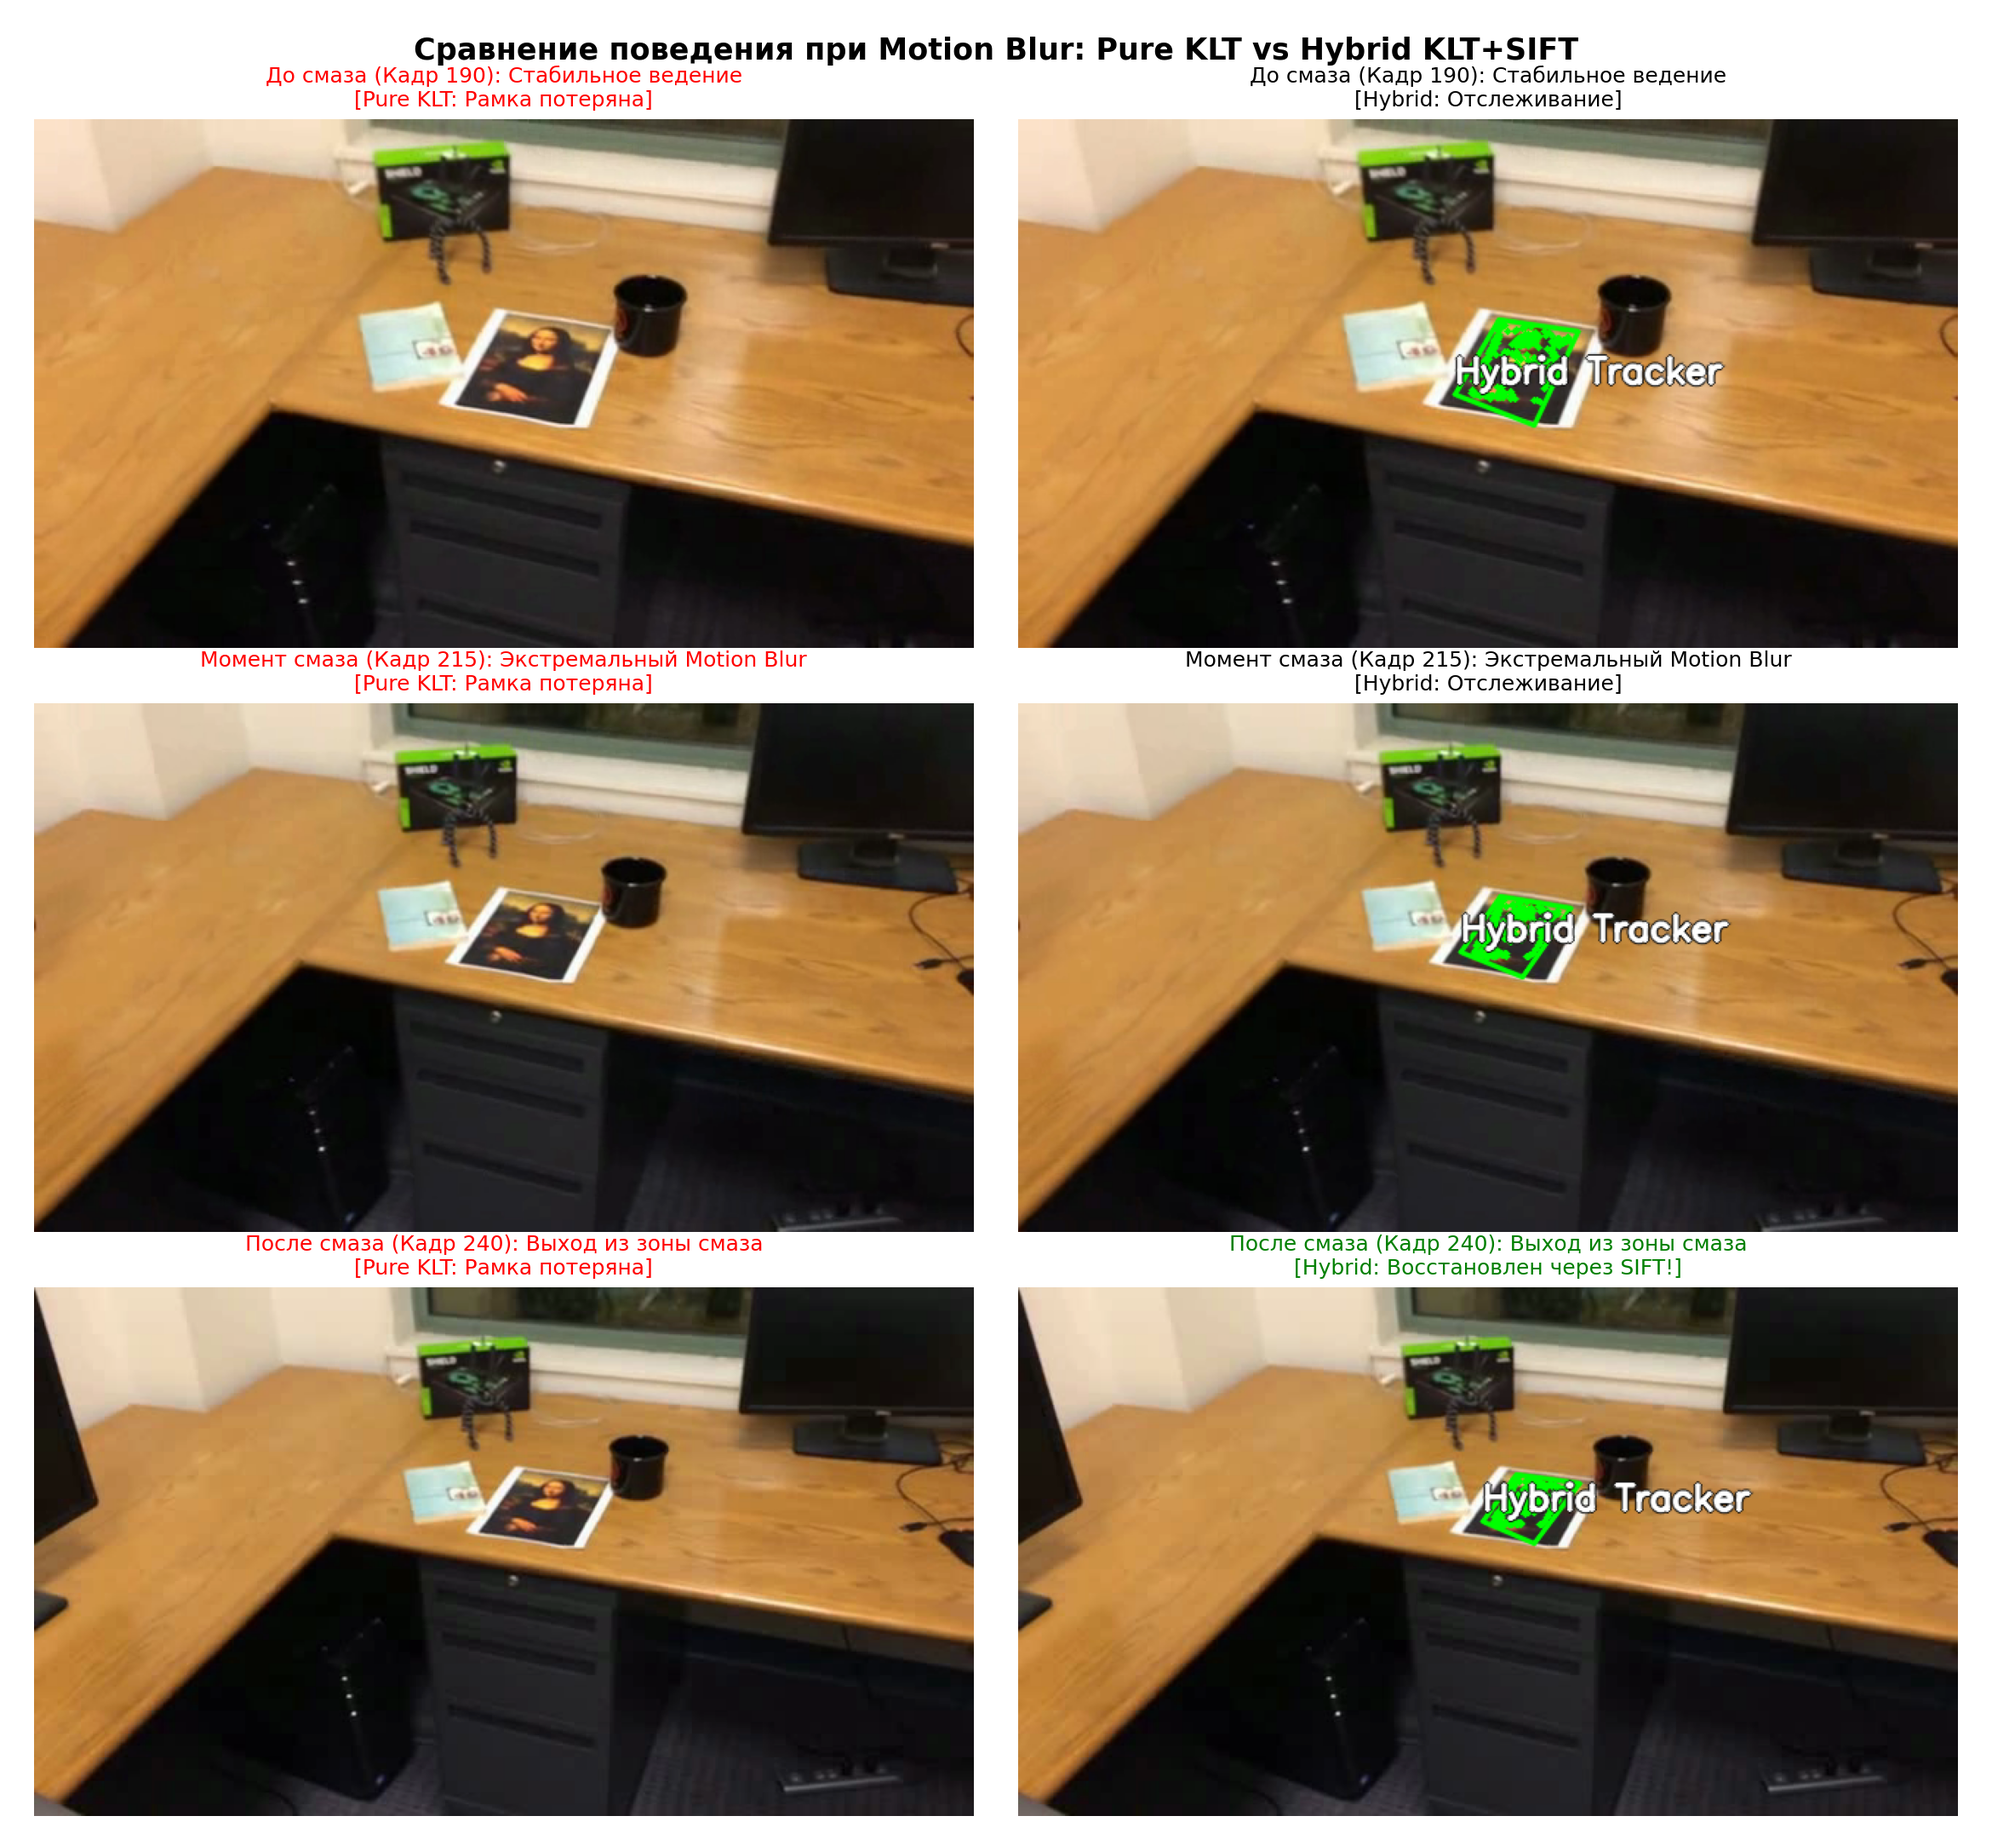
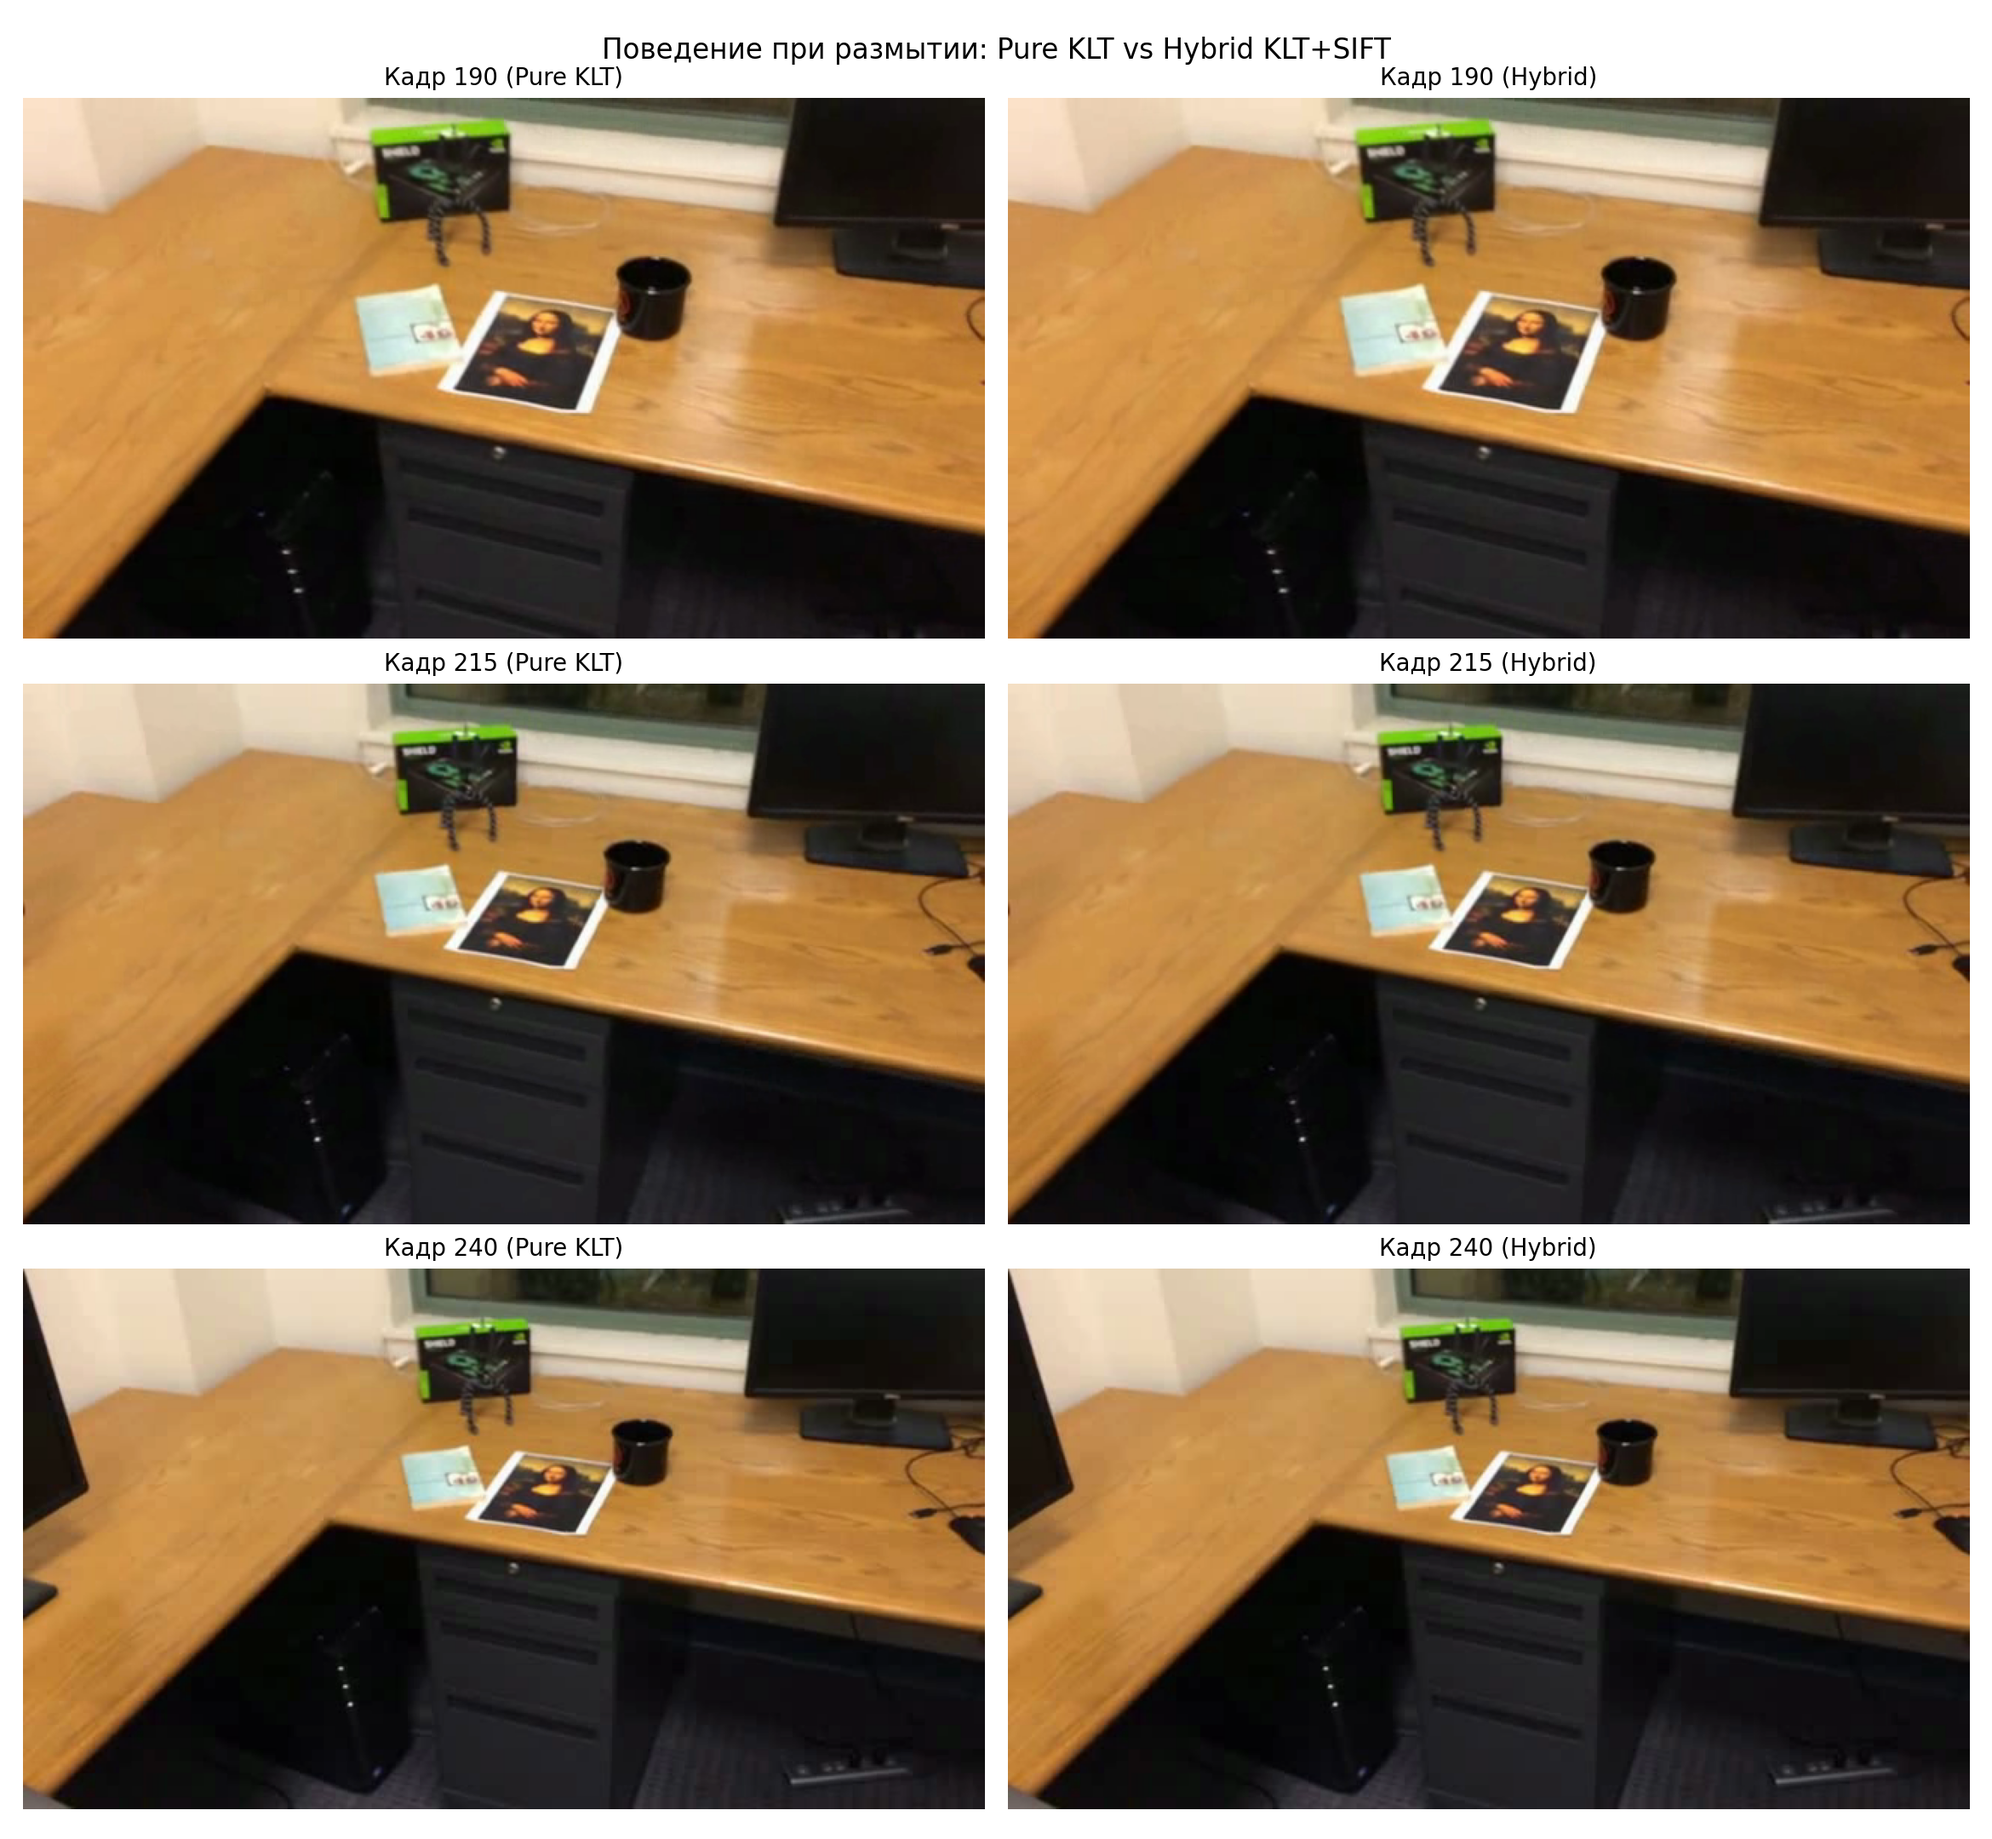
Удаление колонки FPS из таблицы и упрощение подписей к кадрам в отчете ЛР2

diff --git a/lab2/run_experiments.py b/lab2/run_experiments.py
@@ -89,12 +89,12 @@ def generate_visual_demo(video_path: str, output_image_path: str, label: str = "
     keys = sorted(saved_frames.keys())[:6]
 
     descriptions = [
-        "Кадр 0: Шаблон (крупный план)",
-        "Кадр 50: Начало движения камеры",
-        "Кадр 180: Поворот и отдаление",
-        "Кадр 320: Сильное отдаление",
-        "Кадр 480: Возвращение объекта",
-        "Кадр 550: Финал траектории",
+        "Кадр 0",
+        "Кадр 50",
+        "Кадр 180",
+        "Кадр 320",
+        "Кадр 480",
+        "Кадр 550",
     ]
 
     for ax, k, desc in zip(axes.ravel(), keys, descriptions):
@@ -151,9 +151,9 @@ def generate_blur_relocalization_demo(output_image_path: str):
 
     fig, axes = plt.subplots(3, 2, figsize=(13, 12))
     row_titles = [
-        "До смаза (Кадр 190)",
-        "Момент смаза (Кадр 215)",
-        "После смаза (Кадр 240)",
+        "Кадр 190",
+        "Кадр 215",
+        "Кадр 240",
     ]
 
     for row, f_idx in enumerate(capture_frames):
@@ -161,15 +161,13 @@ def generate_blur_relocalization_demo(output_image_path: str):
         # Pure KLT
         ax_left = axes[row, 0]
         ax_left.imshow(cv2.cvtColor(d["klt"], cv2.COLOR_BGR2RGB))
-        klt_label = "Pure KLT: потеря объекта" if not d["tracked_klt"] else "Pure KLT: ведение"
-        ax_left.set_title(f"{row_titles[row]}\n{klt_label}", fontsize=10, color="red" if not d["tracked_klt"] else "black")
+        ax_left.set_title(f"{row_titles[row]} (Pure KLT)", fontsize=11)
         ax_left.axis("off")
 
         # Hybrid
         ax_right = axes[row, 1]
         ax_right.imshow(cv2.cvtColor(d["hyb"], cv2.COLOR_BGR2RGB))
-        hyb_label = "Hybrid: релокализация через SIFT" if row == 2 else "Hybrid: ведение"
-        ax_right.set_title(f"{row_titles[row]}\n{hyb_label}", fontsize=10, color="green" if row == 2 else "black")
+        ax_right.set_title(f"{row_titles[row]} (Hybrid)", fontsize=11)
         ax_right.axis("off")
 
     plt.suptitle("Поведение при размытии: Pure KLT vs Hybrid KLT+SIFT", fontsize=13)

diff --git a/lab2/track_video.py b/lab2/track_video.py
@@ -7,7 +7,7 @@ from tracker import HybridTracker, KeypointTracker, draw_tracking_overlay
 
 def main():
     parser = argparse.ArgumentParser(description="Трекинг плоского объекта на видео по первому кадру.")
-    parser.add_argument("--video", type=str, default="test-videos/mona-lisa.avi", help="Путь к видеофайлу")
+    parser.add_argument("--video", type=str, default="test-videos/mona-lisa.avi", help="Путь к видео")
     parser.add_argument(
         "--tracker", type=str, default="hybrid", choices=["hybrid", "sift", "orb"], help="Тип алгоритма трекинга"
     )

diff --git a/lab2/README.md b/lab2/README.md
@@ -34,7 +34,7 @@ $$x' \sim H x$$
 
 Чтобы единичные ошибки не ломали рамку, применяется алгоритм **RANSAC**: он случайно выбирает 4 точки, строит пробное преобразование, считает число подтверждающих точек (инлаеров) и находит модель, за которую проголосовало большинство.
 
-### 1.4. Оптический поток Лукаса-Канаде (KLT) и релокализация
+### 1.4. KLT и релокализация
 Оптический поток KLT не ищет точки с нуля, а отслеживает их смещение от кадра к кадру по градиентам яркости. Он работает быстро (>400 FPS) и плавно.
 
 Однако при резком движении камеры изображение смазывается (**motion blur**), градиенты исчезают, и KLT теряет точки навсегда.
@@ -84,34 +84,34 @@ $$x' \sim H x$$
 
 Сводная таблица результатов:
 
-| Тестовое видео | Алгоритм | Успешно отслежено кадров (%) | Среднее число точек | Скорость (FPS) |
-| :--- | :--- | :---: | :---: | :---: |
-| mona-lisa.avi | Pure SIFT | 49.6% | 39.6 | 49.7 FPS |
-| | Pure ORB | 41.1% | 107.5 | 101.0 FPS |
-| | Pure KLT | 100.0% | 287.9 | 441.8 FPS |
-| | Hybrid (KLT + SIFT) | 100.0% | 287.9 | 441.0 FPS |
-| mona-lisa-blur.avi | Pure SIFT | 46.1% | 33.5 | 50.0 FPS |
-| | Pure ORB | 37.7% | 84.4 | 95.2 FPS |
-| | Pure KLT | 1.8% (срыв) | 270.7 | 2852 FPS |
-| | Hybrid (KLT + SIFT) | 96.8% | 246.5 | 365.6 FPS |
-| mona-lisa-blur-extra-credit.avi | Pure SIFT | 42.9% | 33.6 | 47.8 FPS |
-| | Pure ORB | 36.3% | 87.5 | 94.5 FPS |
-| | Pure KLT | 2.0% (срыв) | 273.4 | 3306 FPS |
-| | Hybrid (KLT + SIFT) | 95.2% | 202.7 | 352.1 FPS |
+| Тестовое видео | Алгоритм | Успешно отслежено кадров (%) | Среднее число точек |
+| :--- | :--- | :---: | :---: |
+| mona-lisa.avi | Pure SIFT | 49.6% | 39.6 |
+| | Pure ORB | 41.1% | 107.5 |
+| | Pure KLT | 100.0% | 287.9 |
+| | Hybrid (KLT + SIFT) | 100.0% | 287.9 |
+| mona-lisa-blur.avi | Pure SIFT | 46.1% | 33.5 |
+| | Pure ORB | 37.7% | 84.4 |
+| | Pure KLT | 1.8% (срыв) | 270.7 |
+| | Hybrid (KLT + SIFT) | 96.8% | 246.5 |
+| mona-lisa-blur-extra-credit.avi | Pure SIFT | 42.9% | 33.6 |
+| | Pure ORB | 36.3% | 87.5 |
+| | Pure KLT | 2.0% (срыв) | 273.4 |
+| | Hybrid (KLT + SIFT) | 95.2% | 202.7 |
 
 ### 3.2. Визуализация трекинга картины
-Пример отслеживания картины «Мона Лиза» при различных углах и расстояниях:
+Пример отслеживания картины «Мона Лиза»:
 
 ![Результаты трекинга Мона Лиза](results/lab2_tracking_demo.png)
 
 ### 3.3. Поведение при размытии движения (Motion Blur)
-Сравнение чистого KLT и гибридного алгоритма на участке сильного смаза:
+Сравнение чистого KLT и гибридного алгоритма:
 
 ![Поведение при Motion Blur](results/lab2_blur_relocalization.png)
 
-- При резком рывке камеры (кадр 215) оптический поток теряет точки.
-- Чистый KLT после этого окончательно перестаёт видеть объект.
-- Гибридный трекер сразу после окончания смаза (кадр 240) находит объект через SIFT, восстанавливает рамку и возвращается к обычному трекингу.
+- Кадр 190
+- Кадр 215
+- Кадр 240
 
 ### 3.4. Тестирование на собственном видео
 Записано видео с реальным объектом (информационная памятка на фоне ткани) с изменением ракурса, приближением, отдалением и поворотами:
